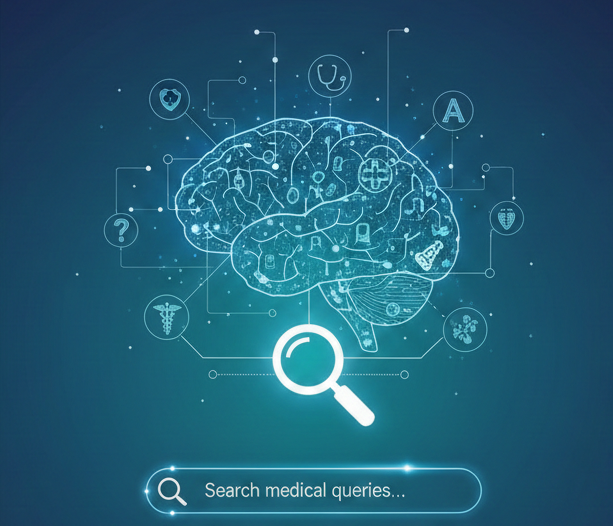
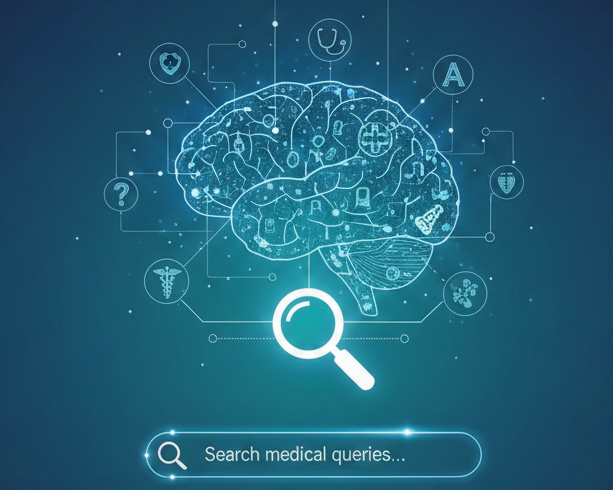
add project

diff --git a/_projects/2_project.md b/_projects/2_project.md
@@ -1,80 +1,67 @@
 ---
 layout: page
-title: project 2
-description: a project with a background image and giscus comments
-img: assets/img/3.jpg
-importance: 2
+title: Optimal Route API
+description: REST API using .NET 6 (C#) that calculates the optimal route between two cities.
+img: assets/img/proj-route.png
+importance: 1
 category: software
+github: https://github.com/norians/OptimalRouteAPI
 ---
 
-Every project has a beautiful feature showcase page.
-It's easy to include images in a flexible 3-column grid format.
-Make your photos 1/3, 2/3, or full width.
+This project implements a REST API in .NET 6 (C#) to compute the shortest route between two cities based on a set of weighted road connections.
+The solution explores all valid paths using an iterative depth-first search (DFS) strategy and selects the route with the minimum total travel time.
 
-To give your project a background in the portfolio page, just add the img tag to the front matter like so:
+The focus of the project is on algorithmic clarity, backend design, and correctness, rather than heavy optimization, making the logic easy to reason about and extend.
 
-    ---
-    layout: page
-    title: project
-    description: a project with a background image
-    img: /assets/img/12.jpg
-    ---
+Highlights:
+- Graph traversal with iterative DFS
+- Route evaluation based on accumulated weights
+- Clean service-oriented backend design
+- Dependency Injection and SOLID principles
+- .NET 6 REST API
+- Deterministic and testable logic
 
-<div class="row">
-    <div class="col-sm mt-3 mt-md-0">
-        {% include figure.liquid loading="eager" path="assets/img/1.jpg" title="example image" class="img-fluid rounded z-depth-1" %}
-    </div>
-    <div class="col-sm mt-3 mt-md-0">
-        {% include figure.liquid loading="eager" path="assets/img/3.jpg" title="example image" class="img-fluid rounded z-depth-1" %}
-    </div>
-    <div class="col-sm mt-3 mt-md-0">
-        {% include figure.liquid loading="eager" path="assets/img/5.jpg" title="example image" class="img-fluid rounded z-depth-1" %}
-    </div>
-</div>
-<div class="caption">
-    Caption photos easily. On the left, a road goes through a tunnel. Middle, leaves artistically fall in a hipster photoshoot. Right, in another hipster photoshoot, a lumberjack grasps a handful of pine needles.
-</div>
-<div class="row">
-    <div class="col-sm mt-3 mt-md-0">
-        {% include figure.liquid loading="eager" path="assets/img/5.jpg" title="example image" class="img-fluid rounded z-depth-1" %}
-    </div>
-</div>
-<div class="caption">
-    This image can also have a caption. It's like magic.
-</div>
-
-You can also put regular text between your rows of images.
-Say you wanted to write a little bit about your project before you posted the rest of the images.
-You describe how you toiled, sweated, _bled_ for your project, and then... you reveal its glory in the next row of images.
-
-<div class="row justify-content-sm-center">
-    <div class="col-sm-8 mt-3 mt-md-0">
-        {% include figure.liquid path="assets/img/6.jpg" title="example image" class="img-fluid rounded z-depth-1" %}
-    </div>
-    <div class="col-sm-4 mt-3 mt-md-0">
-        {% include figure.liquid path="assets/img/5.jpg" title="example image" class="img-fluid rounded z-depth-1" %}
-    </div>
-</div>
-<div class="caption">
-    You can also have artistically styled 2/3 + 1/3 images, like these.
-</div>
-
-The code is simple.
-Just wrap your images with `<div class="col-sm">` and place them inside `<div class="row">` (read more about the <a href="https://getbootstrap.com/docs/4.4/layout/grid/">Bootstrap Grid</a> system).
-To make images responsive, add `img-fluid` class to each; for rounded corners and shadows use `rounded` and `z-depth-1` classes.
-Here's the code for the last row of images above:
-
+Request:
 {% raw %}
 
-```html
-<div class="row justify-content-sm-center">
-  <div class="col-sm-8 mt-3 mt-md-0">
-    {% include figure.liquid path="assets/img/6.jpg" title="example image" class="img-fluid rounded z-depth-1" %}
-  </div>
-  <div class="col-sm-4 mt-3 mt-md-0">
-    {% include figure.liquid path="assets/img/5.jpg" title="example image" class="img-fluid rounded z-depth-1" %}
-  </div>
-</div>
+```json
+{
+  "cities": ["A", "B", "C", "D"],
+  "roads": [
+    {"from": "A", "to": "B", "time": 10},
+    {"from": "B", "to": "C", "time": 15},
+    {"from": "A", "to": "C", "time": 30},
+    {"from": "C", "to": "D", "time": 5},
+    {"from": "B", "to": "D", "time": 25}
+  ],
+  "origin": "A",
+  "destination": "D"
+}
 ```
 
 {% endraw %}
+
+
+<div class="row">
+    <div class="col-sm mt-3 mt-md-0">
+        {% include figure.liquid loading="eager" path="assets/img/proj-route-diagram.png" title="diagram" class="img-fluid rounded z-depth-1" %}
+    </div>
+</div>
+<div class="caption">
+    Graph-based route evaluation showing alternative paths and the selected optimal route.
+</div>
+
+Response:
+{% raw %}
+
+```json
+{
+  "route": ["A", "B", "C", "D"],
+  "totalTime": 30
+}
+```
+
+{% endraw %}
+
+
+

diff --git a/_projects/1_project.md b/_projects/1_project.md
@@ -3,11 +3,9 @@ layout: page
 title: Medical Semantic QA System
 description: Medical question-answering system based on embedding similarity and curated clinical data.
 img: assets/img/proj-medical.png
-importance: 1
+importance: 2
 category: software
-related_publications: false
 github: https://github.com/norians/Medical-Semantic-QA-System
-tags: SentenceEmbeddings
 ---
 
 Medical Semantic QA System is an applied NLP project focused on semantic retrieval.
